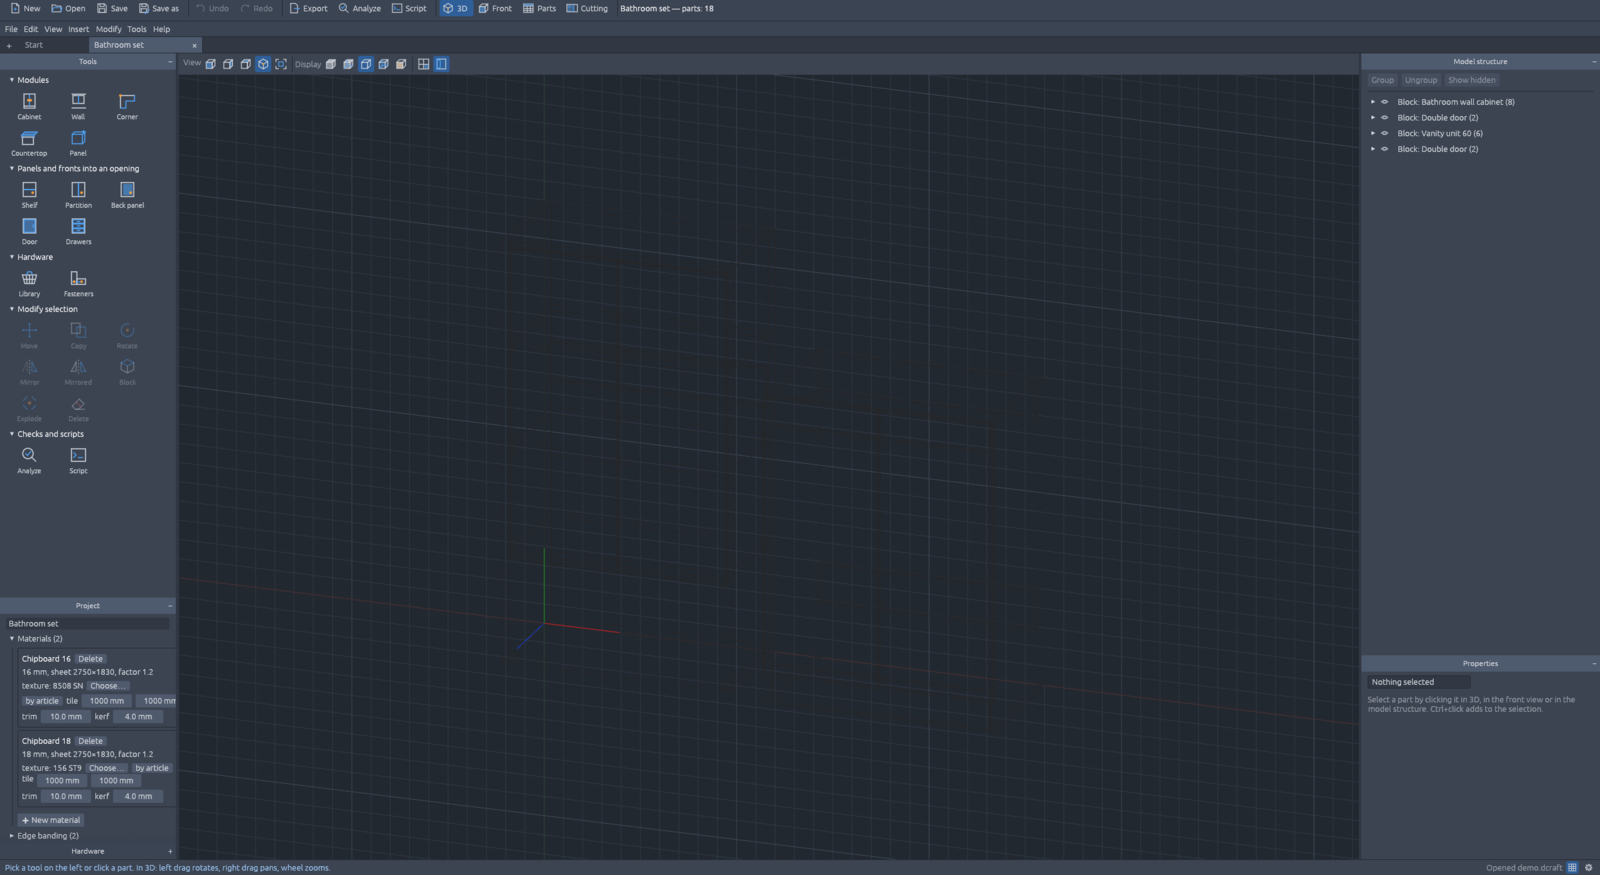
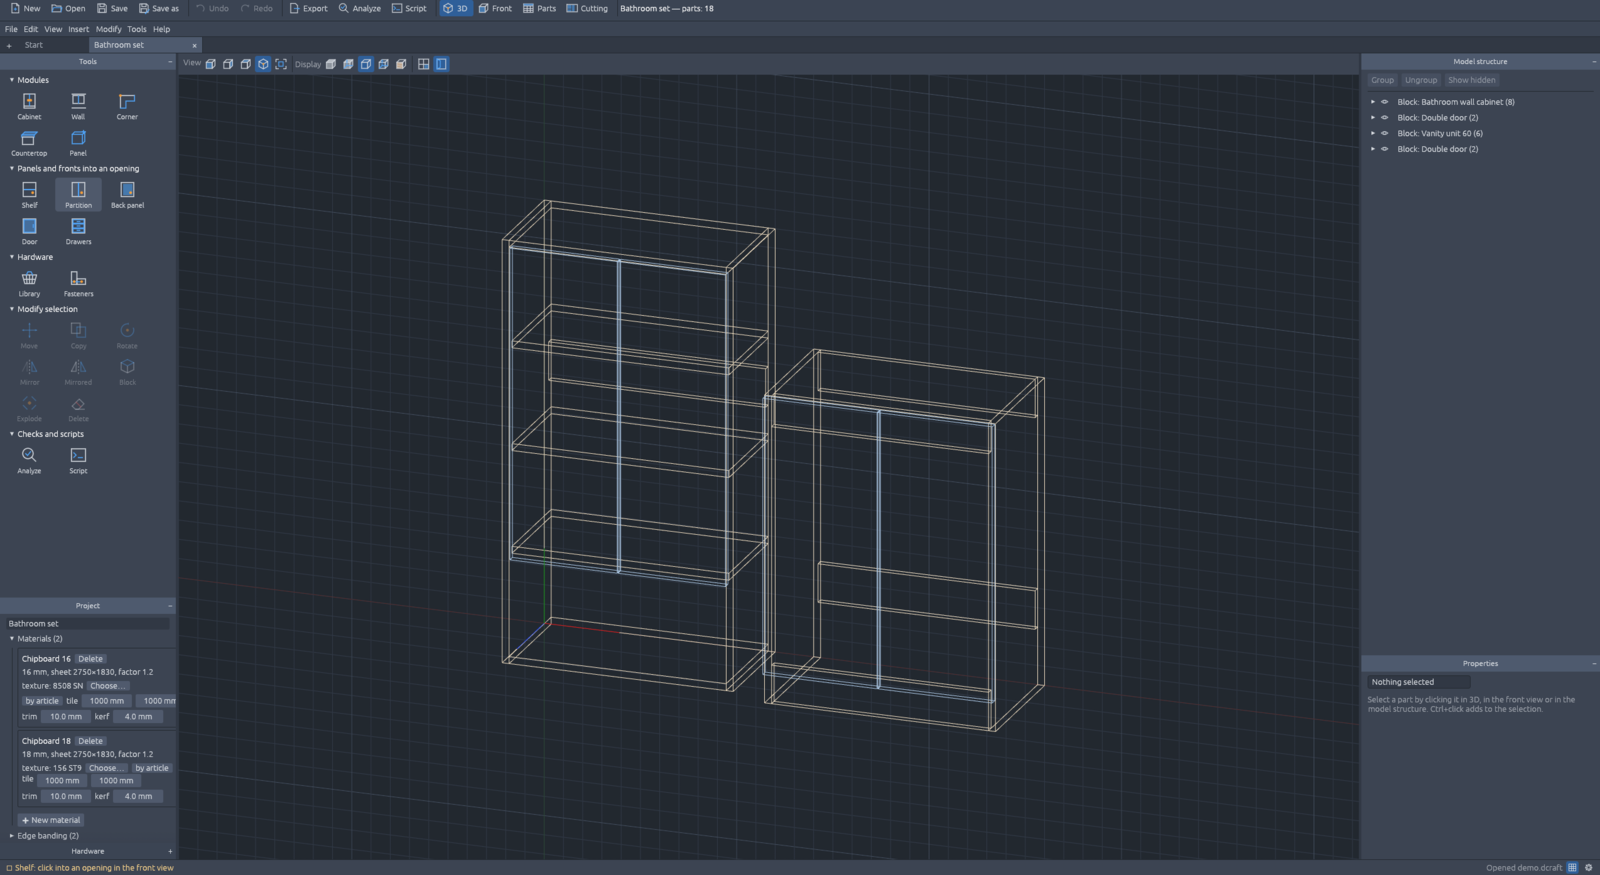
fix: wireframe edges were nearly black on the dark background; now they use the part colour (carcass beige, fronts blue, selection orange); scene rebuilds on mode change; new screenshot

diff --git a/apps/gui/src/viewport.rs b/apps/gui/src/viewport.rs
@@ -160,6 +160,13 @@ fn hit(o: [f32; 3], d: [f32; 3], t: &[[f32; 3]; 3]) -> Option<f32> {
     ((0.0..=1.0).contains(&u) && v >= 0.0 && u + v <= 1.0 && dist > 0.0).then_some(dist)
 }
 
+/// Как красить сцену (см. `Scene::new`).
+enum Look<'a> {
+    Plain,
+    Wire,
+    Textured(&'a [(String, String, [f64; 2])]),
+}
+
 /// Цвет выделенной детали.
 const SELECTED: [f32; 3] = [1.0, 0.62, 0.2];
 
@@ -632,8 +639,13 @@ fn upload(device: &wgpu::Device, queue: &wgpu::Queue, layout: &wgpu::BindGroupLa
 }
 
 impl Scene {
-    /// `textures` — для режима «В текстурах»: картинка материала детали (номер, плитка мм).
-    fn new(device: &wgpu::Device, parts: &[Part], m: &Mesh, selected: &[usize], furniture: &[FurnView], textures: Option<&[(String, String, [f64; 2])]>, offset: [f32; 3]) -> Scene {
+    /// `look` — как красить: «В текстурах» — картинка материала детали (номер, плитка мм), «Каркас» — рёбра цветом детали.
+    fn new(device: &wgpu::Device, parts: &[Part], m: &Mesh, selected: &[usize], furniture: &[FurnView], look: Look, offset: [f32; 3]) -> Scene {
+        let (textures, wire) = match look {
+            Look::Textured(t) => (Some(t), false),
+            Look::Wire => (None, true),
+            Look::Plain => (None, false),
+        };
         // Пока выделенное тащат мышью — оно рисуется со сдвигом `offset`.
         let moved = |part: usize, p: [f32; 3]| if selected.contains(&part) { std::array::from_fn(|k| p[k] + offset[k]) } else { p };
         let mut tris = Vec::with_capacity(m.vertices.len() * STRIDE as usize);
@@ -679,8 +691,17 @@ impl Scene {
             (lo, hi) = ([0.0; 3], [1000.0; 3]);
         }
         let mut lines = Vec::new();
-        let edge = [0.15, 0.15, 0.15, 1.0];
+        // Рёбра тёмные поверх граней; в «Каркасе» граней нет, фон тёмный — рёбра цвета детали.
+        let edge_of = |part: usize| match (wire, selected.contains(&part)) {
+            (false, _) => [0.15, 0.15, 0.15, 1.0],
+            (true, true) => [SELECTED[0], SELECTED[1], SELECTED[2], 1.0],
+            (true, false) => {
+                let c = color(m.kinds[part]);
+                [c[0], c[1], c[2], 1.0]
+            }
+        };
         for (a, b, part) in &m.lines {
+            let edge = edge_of(*part as usize);
             push_vertex(&mut lines, moved(*part as usize, *a), [0.0; 3], edge);
             push_vertex(&mut lines, moved(*part as usize, *b), [0.0; 3], edge);
         }
@@ -932,9 +953,13 @@ impl Viewport {
         }
         let textured = self.mode == Mode::Textured;
         let offset = self.drag_offset().map(|v| v as f32);
-        if self.offset_built != offset || self.selected.as_deref() != Some(selected) || self.furniture_built != self.furniture || self.textures_built != self.textures || self.mode_built.map(|m| m == Mode::Textured) != Some(textured) {
-            let tex = textured.then_some(&self.textures[..]);
-            self.scene = Some(Scene::new(&rs.device, parts, &self.mesh, selected, &self.furniture, tex, offset));
+        if self.offset_built != offset || self.selected.as_deref() != Some(selected) || self.furniture_built != self.furniture || self.textures_built != self.textures || self.mode_built != Some(self.mode) {
+            let look = match self.mode {
+                Mode::Textured => Look::Textured(&self.textures),
+                Mode::Wire => Look::Wire,
+                Mode::Solid | Mode::Hidden | Mode::XRay => Look::Plain,
+            };
+            self.scene = Some(Scene::new(&rs.device, parts, &self.mesh, selected, &self.furniture, look, offset));
             self.offset_built = offset;
             self.selected = Some(selected.to_vec());
             self.furniture_built = self.furniture.clone();
